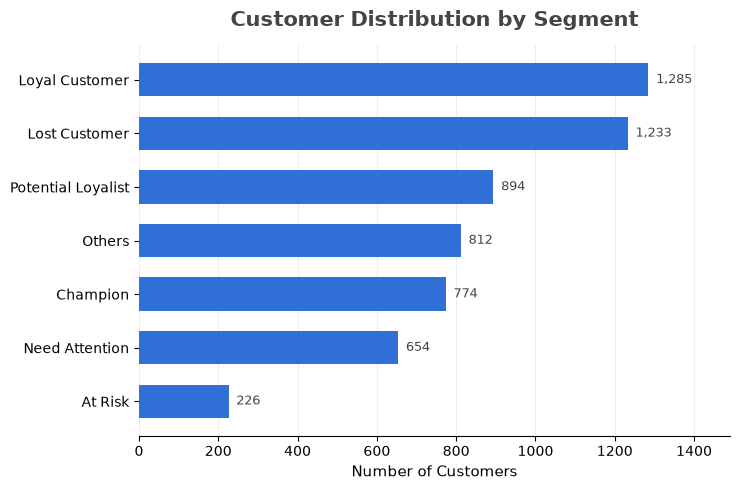
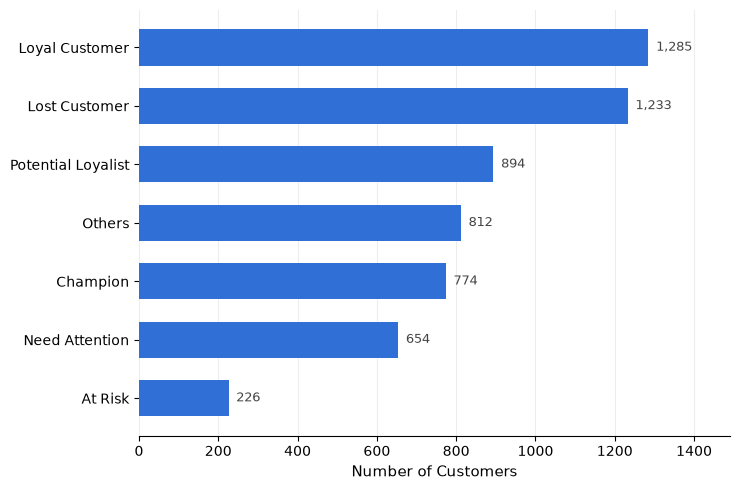
Editing Readme

diff --git a/README.md b/README.md
@@ -124,7 +124,7 @@ data/
 
 ### 1. Sales Performance
 
-** Analysis Purpose**
+**Analysis Purpose**
 
 Examine monthly revenue, order volume, and average order value to identify sales trends trends and seasonal patterns.
 
@@ -218,7 +218,7 @@ RFM analysis evaluate customer value using three behavioral metrics:
 
 ### Customer Segment Distribution
 
-![Customer Segment Distribution](images/06_rfm_segments.png)
+![Customer Distribution by Segment](images/06_rfm_segments.png)
 
 The Customer base was segmented into seven behavioral groups based on purchasing recency, purchase frequency, and total spending.
 
